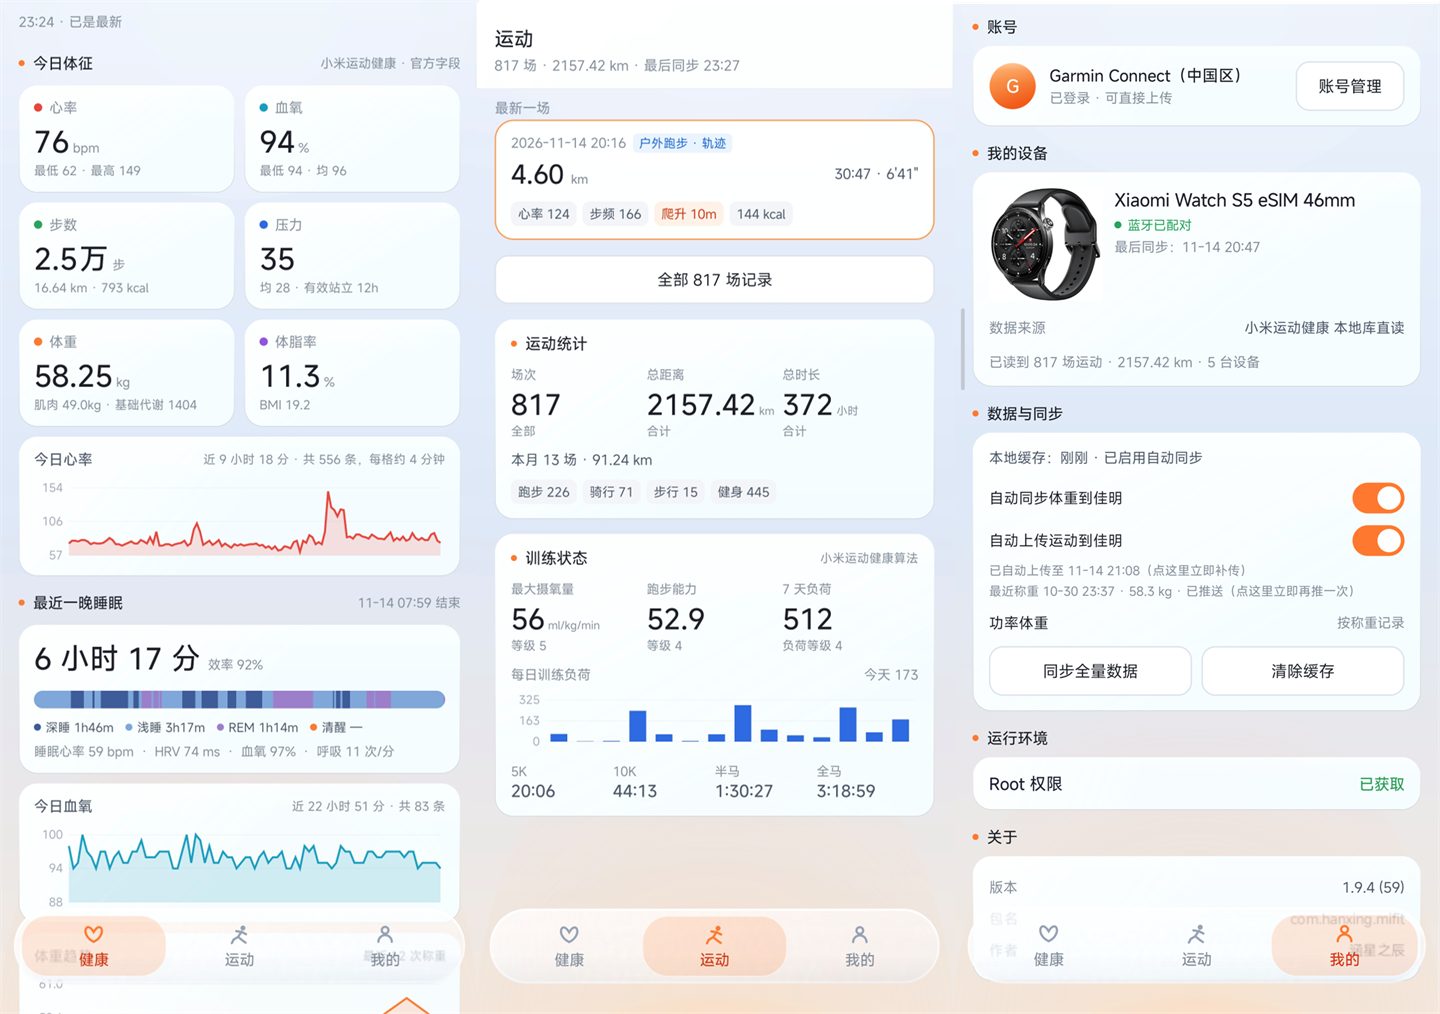
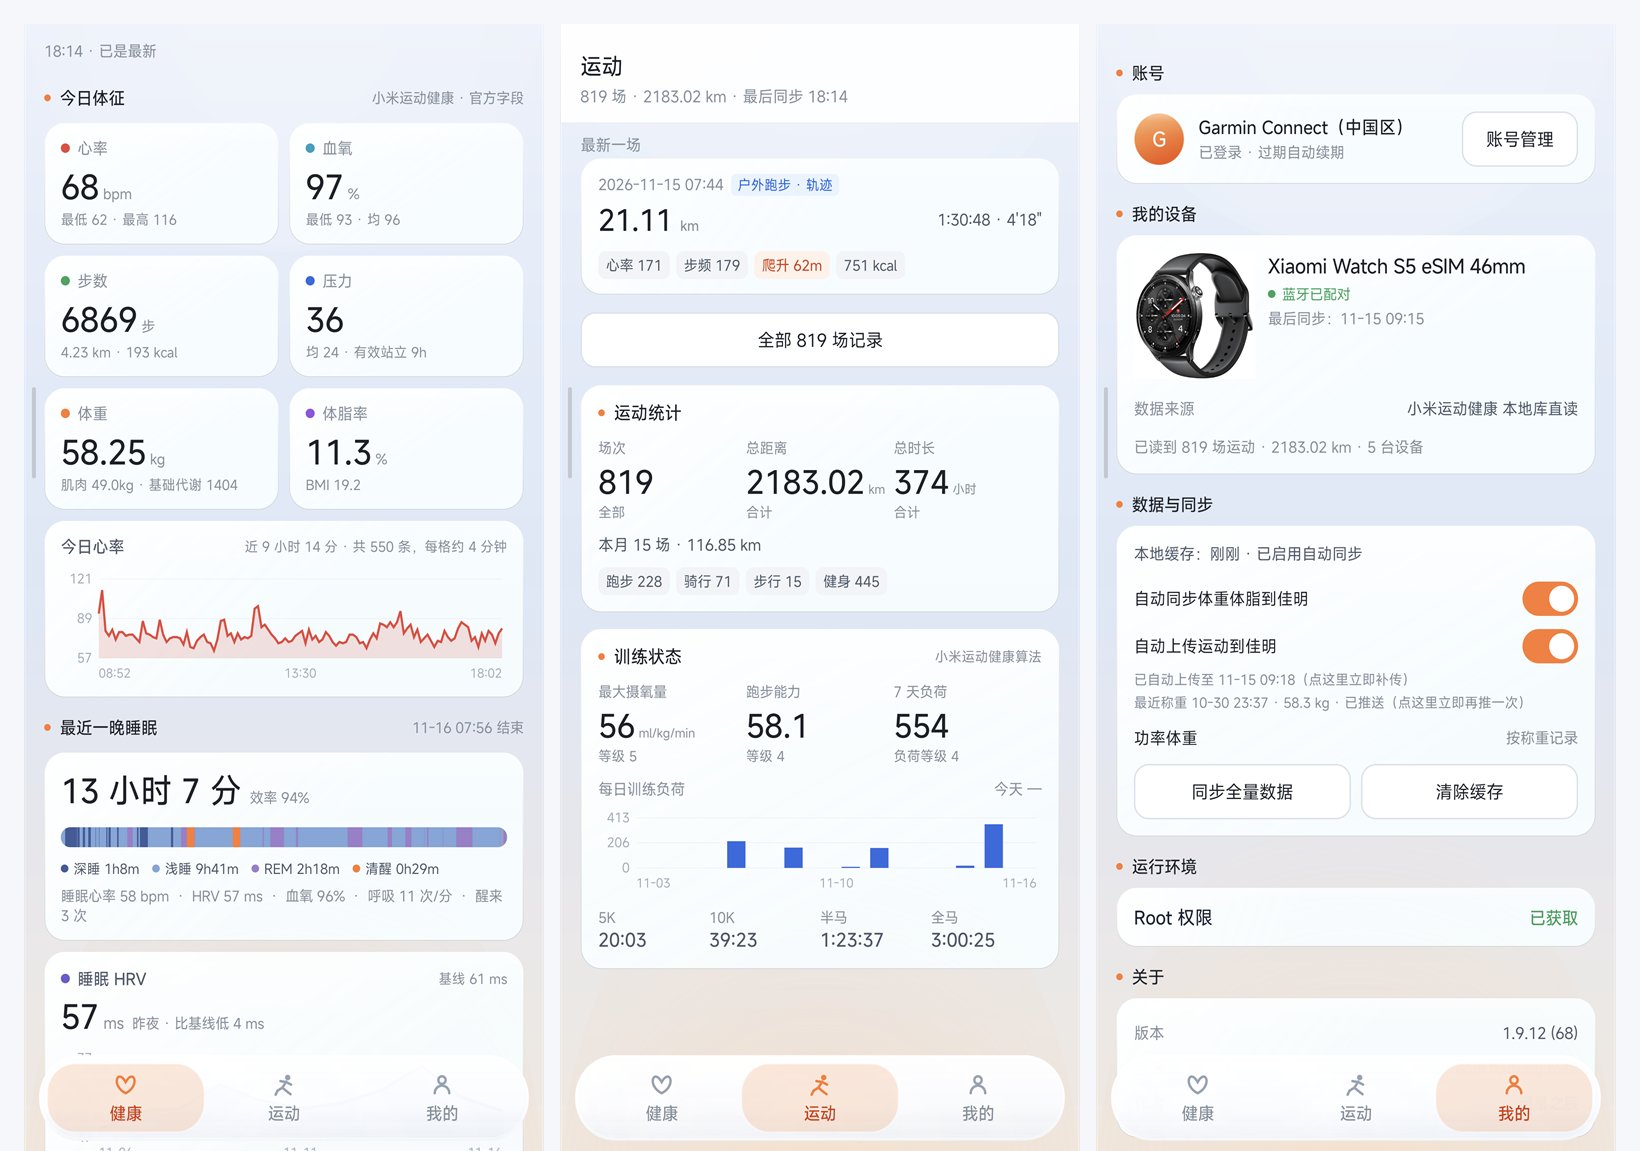
修复超长睡眠记录解析越界，底栏玻璃补齐底色；截图换 1.9.12

diff --git a/src/mfit/LiquidGlass.java b/src/mfit/LiquidGlass.java
@@ -52,8 +52,8 @@ public class LiquidGlass extends FrameLayout {
 
     private float radiusPx = 0;
     private float blurDp = 16f;
-    private int tintTop = 0x9AFFFFFF;
-    private int tintBottom = 0x82F3F8FF;
+    private int tintTop = 0xF8FFFFFF;
+    private int tintBottom = 0xF1F5F9FE;
     private int avgColor = 0xFFF4F8FD;
 
     private Bitmap shot;
@@ -65,6 +65,7 @@ public class LiquidGlass extends FrameLayout {
     private long lastCapture = 0;
     private boolean capturing = false;
     private boolean ready = false;
+    private boolean hasBg = false;   // 抓到的背景图里是否有内容，空图就当抓取失败
     private boolean resumePosted = false;
 
     // ---- API 33+ 用 AGSL 做真正的边缘折射（参考 Kyant0/AndroidLiquidGlass 的做法）----
@@ -285,6 +286,7 @@ public class LiquidGlass extends FrameLayout {
             }
         }
         if (n > 0) avgColor = Color.rgb((int) (r / n), (int) (g / n), (int) (bl / n));
+        hasBg = n > 32;      // 采样点太少说明这一帧根本没抓到内容
     }
 
     /** 6×5 采样哈希：背景没变就不重画 */
@@ -384,7 +386,7 @@ public class LiquidGlass extends FrameLayout {
             matDirty = false;
         }
         // API 33+：背景交给 AGSL 做边缘折射，材质（染色/高光/边）再叠在上面
-        if (agslOk && shader != null && node != null && shot != null && ready) {
+        if (agslOk && hasBg && shader != null && node != null && shot != null && ready) {
             float r = radiusPx > 0 ? Math.min(radiusPx, Math.min(w, h) / 2f) : 0;
             int hw = Math.max(1, w / 2), hh = Math.max(1, h / 2);
             shader.setFloatUniform("sz", (float) hw, (float) hh);
@@ -413,6 +415,9 @@ public class LiquidGlass extends FrameLayout {
 
         canvas.save();
         canvas.clipPath(clip);
+
+        // 0) 兜底底色：抓不到背景时玻璃会变成全透明，底下的文字就直接透上来了
+        if (!hasBg) canvas.drawColor(0xF2F8FAFD);
 
         // 1) 透过来的模糊背景（AGSL 路径下背景由 shader 提供，这里不再画）
         boolean agsl = agslOk && node != null;

diff --git a/src/mfit/Db.java b/src/mfit/Db.java
@@ -174,6 +174,7 @@ public class Db {
             return out;
         }
         int local = minLocal + ((len - minLocal) % (usable - 4));
+        if (local > maxLocal) local = minLocal;   // 算出的本地段超过单页上限时回退到最小段
         byte[] out = new byte[len];
         int copy = Math.min(local, Math.max(0, cell.length - off));
         System.arraycopy(cell, off, out, 0, copy);
